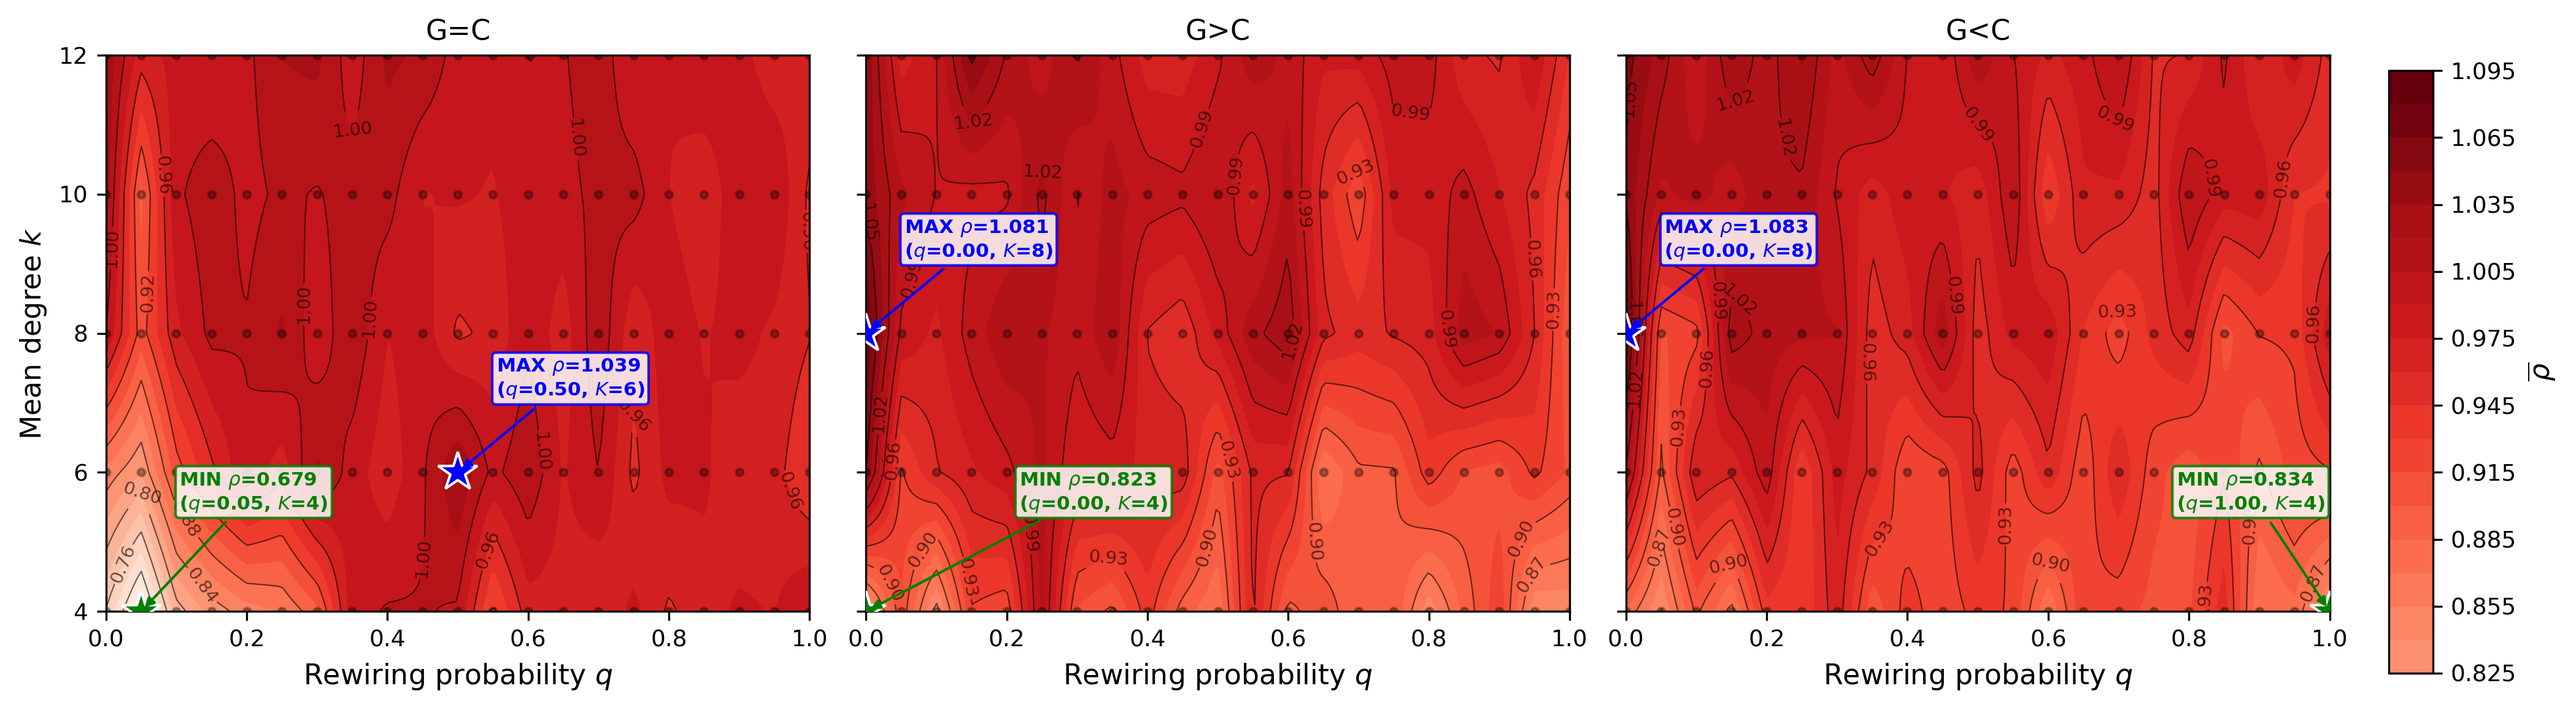
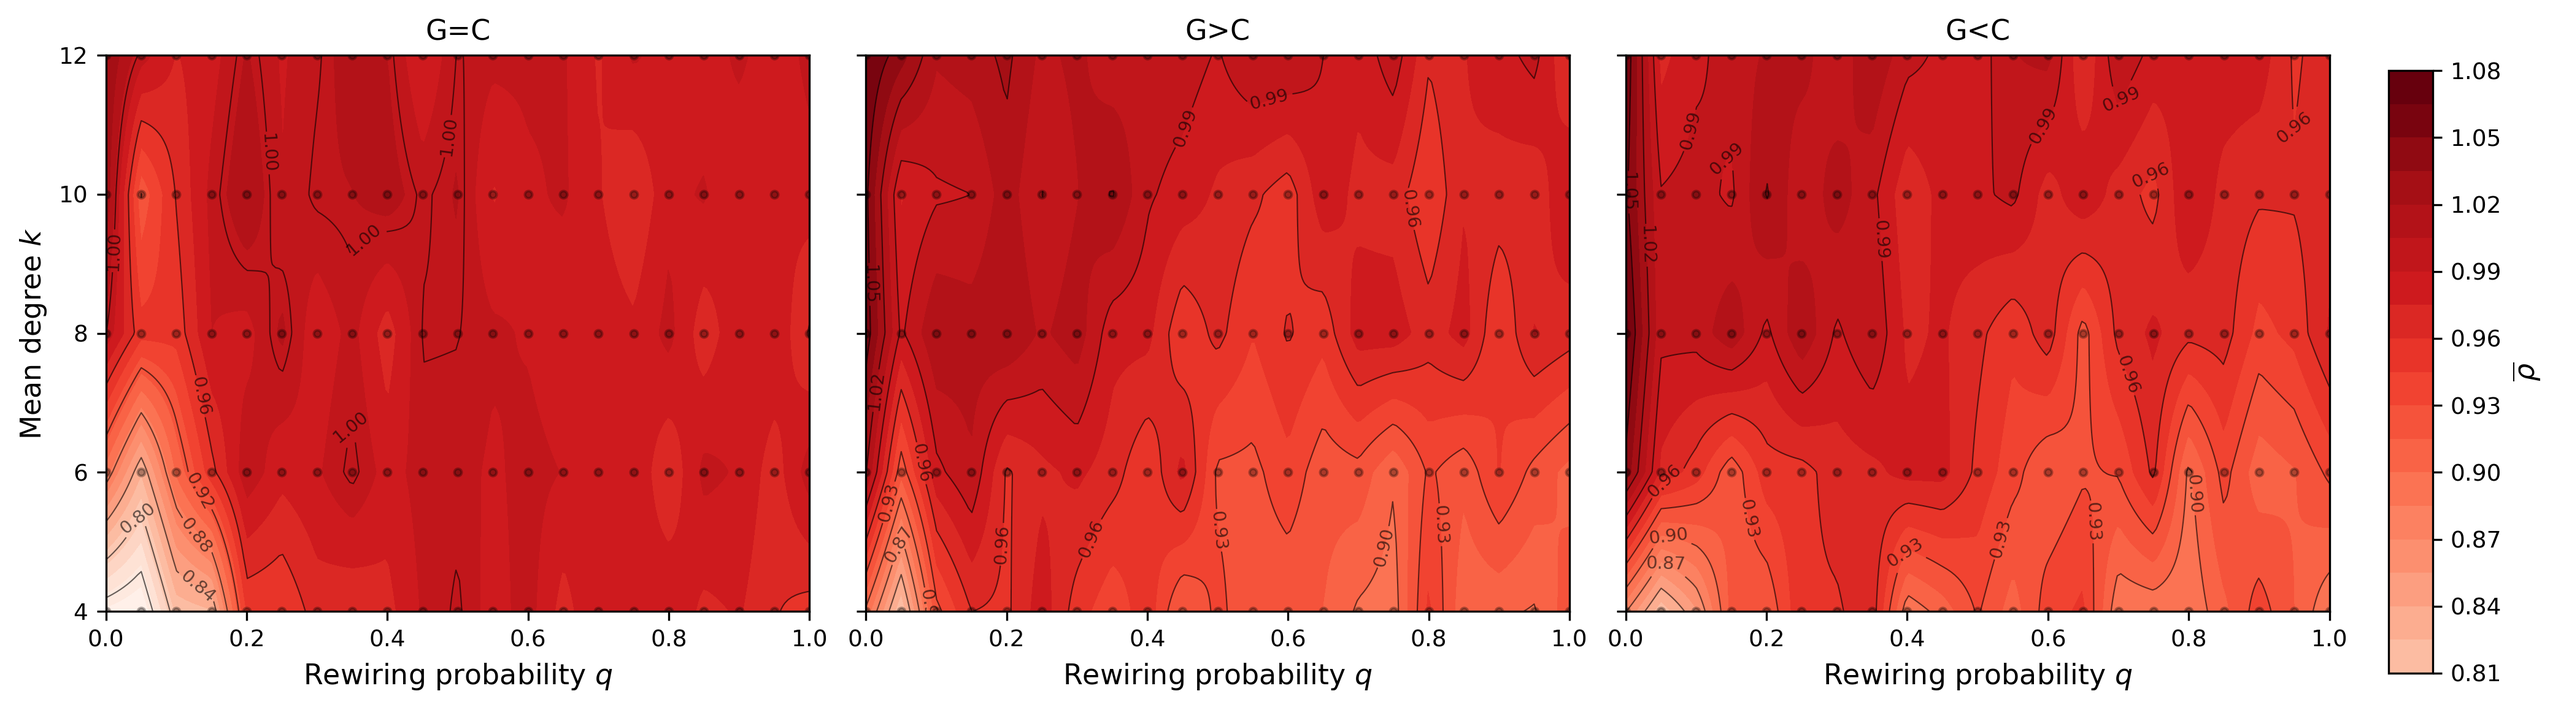
update

diff --git a/Topology2.0/ws_topology_effects/swing_cascade/plots.py b/Topology2.0/ws_topology_effects/swing_cascade/plots.py
@@ -256,54 +256,6 @@ def plot_bisection_combined_heatmap():
         Qg, Kg = np.meshgrid(Q, K)
         ax.scatter(Qg.ravel(), Kg.ravel(), s=8, c="k", alpha=0.3, zorder=3)
 
-        # ── 标注原始网格上 ρ 最大值和最小值 ──
-        rho_raw = _get_rho(all_data[rn])
-        valid_mask = ~np.isnan(rho_raw)
-        if valid_mask.any():
-            # 找 max / min
-            idx_max = np.nanargmax(rho_raw)
-            ki_max, qi_max = np.unravel_index(idx_max, rho_raw.shape)
-            q_max, k_max, v_max = Q[qi_max], K[ki_max], rho_raw[ki_max, qi_max]
-
-            rho_valid = np.where(valid_mask, rho_raw, np.inf)
-            idx_min = np.argmin(rho_valid)
-            ki_min, qi_min = np.unravel_index(idx_min, rho_raw.shape)
-            q_min, k_min, v_min = Q[qi_min], K[ki_min], rho_raw[ki_min, qi_min]
-
-            # MAX 标注始终往上, MIN 标注始终往下
-            # 若两者的 K 值接近且 q 值也接近，则水平错开
-            _ann_kw = dict(textcoords="offset points", fontweight="bold",
-                           zorder=6, annotation_clip=False)
-            _arr_kw = dict(arrowstyle="-|>", lw=1.0)
-
-            # MAX ★
-            ax.plot(q_max, k_max, marker="*", color="blue", markersize=16,
-                    markeredgecolor="white", markeredgewidth=1.0, zorder=5)
-            max_off = (-60, 30) if q_max > 0.5 else (15, 30)
-            ax.annotate(f"MAX $\\rho$={v_max:.3f}\n($q$={q_max:.2f}, $K$={k_max})",
-                        xy=(q_max, k_max), xytext=max_off,
-                        fontsize=7.5, color="blue",
-                        bbox=dict(boxstyle="round,pad=0.2", fc="white",
-                                  ec="blue", alpha=0.85),
-                        arrowprops=dict(color="blue", **_arr_kw), **_ann_kw)
-
-            # MIN ★ — 标注放在图内上方，避免遮挡 x 轴
-            ax.plot(q_min, k_min, marker="*", color="green", markersize=16,
-                    markeredgecolor="white", markeredgewidth=1.0, zorder=5)
-            # 若 MIN 和 MAX 的 q 都在左侧，则 MIN 标注偏右；反之偏左
-            if abs(q_min - q_max) < 0.3 and q_min < 0.5:
-                min_off = (60, 40)
-            elif q_min > 0.5:
-                min_off = (-60, 40)
-            else:
-                min_off = (15, 40)
-            ax.annotate(f"MIN $\\rho$={v_min:.3f}\n($q$={q_min:.2f}, $K$={k_min})",
-                        xy=(q_min, k_min), xytext=min_off,
-                        fontsize=7.5, color="green",
-                        bbox=dict(boxstyle="round,pad=0.2", fc="white",
-                                  ec="green", alpha=0.85),
-                        arrowprops=dict(color="green", **_arr_kw), **_ann_kw)
-
         ax.set_xlabel("Rewiring probability $q$")
         ax.set_title(_RATIO_LABELS[rn], fontsize=_FONT)
         ax.set_yticks(K)
